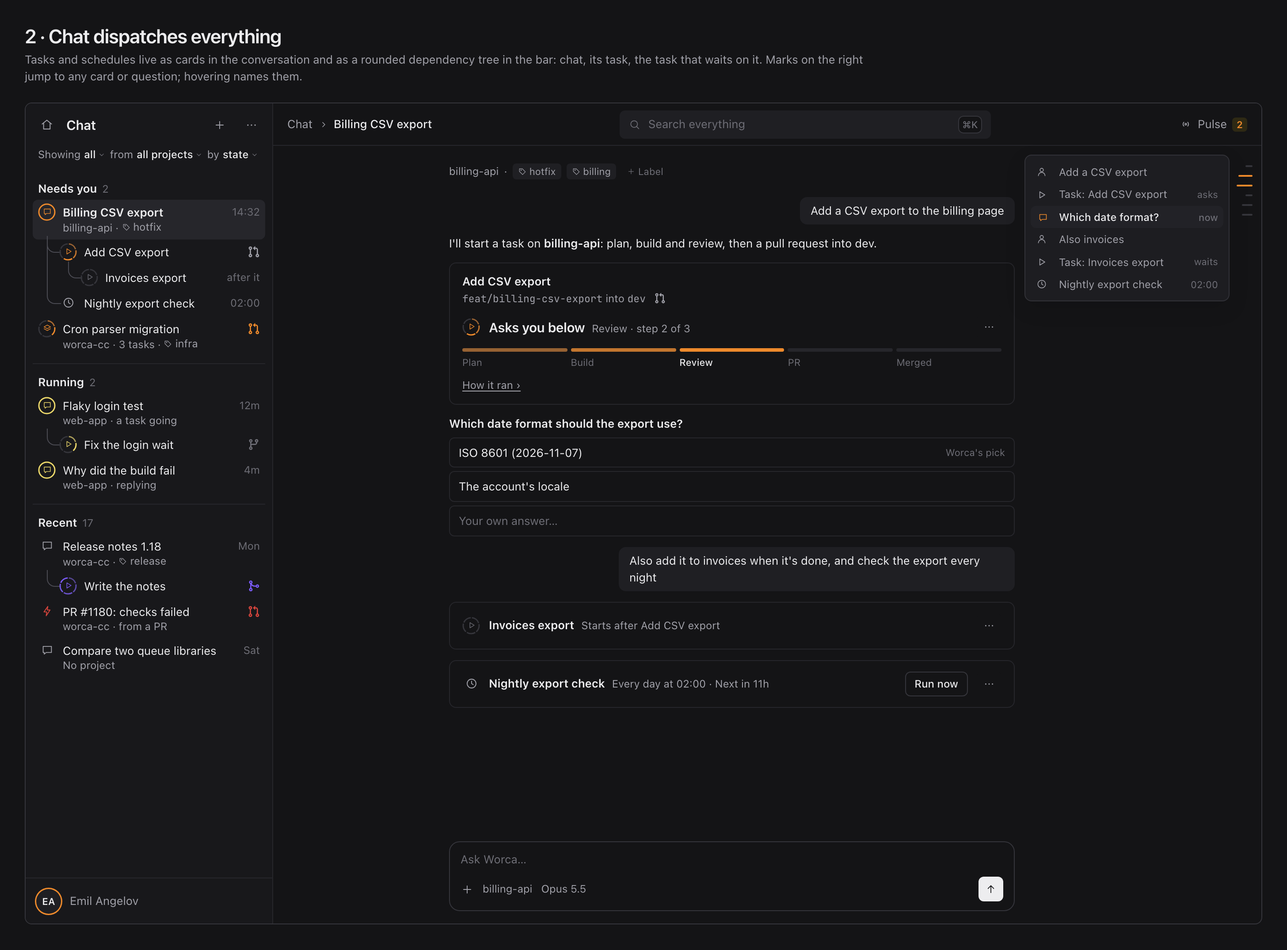
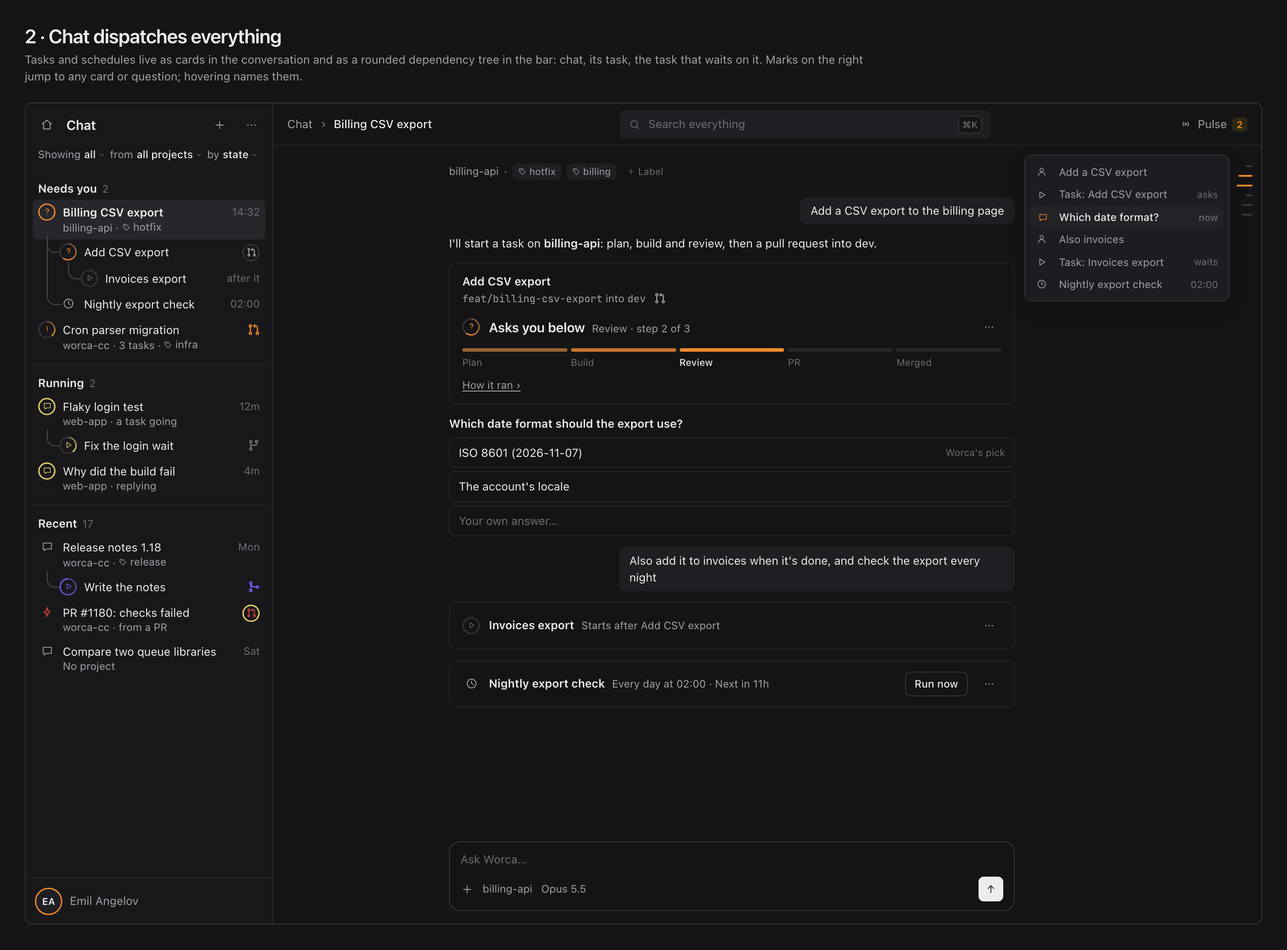
Shaping: smooth stage ring, Watch ring, every status, anchors on hover first

diff --git a/plans/rail/mocks/wave-2/mock.js b/plans/rail/mocks/wave-2/mock.js
@@ -2,12 +2,14 @@ const P=(d)=>`<path d="${d}"/>`, C=(x,y,r)=>`<circle cx="${x}" cy="${y}" r="${r}
 const I={home:P('M4 11l8-6.5 8 6.5')+P('M6.5 9.5v10h11v-10'),chat:P('M4.5 5.5h15v11H10l-3.5 3v-3h-2z'),run:P('M8 5.5v13l10.5-6.5z'),schedule:C(12,12,8)+P('M12 7.5V12l3 2'),event:P('M13 3.5 6 13.5h5l-1 7 7-10.5h-5z'),feature:P('M12 4l8 4.5-8 4.5-8-4.5z')+P('M4 13l8 4.5 8-4.5'),
 workflow:C(6,12,2.2)+C(18,6,2.2)+C(18,18,2.2)+P('M8.2 12H12V6h3.8M12 12v6h3.8'),req:P('M6 3.5h9l3 3v14H6z')+P('M9 12h6M9 16h4'),market:P('M5 8.5h14l-1 11.5H6z')+P('M9 11V7a3 3 0 0 1 6 0v4'),folder:P('M3.5 6.5h6l2 2.5h9v10h-17z'),grid:Q(4,4,6.5,6.5)+Q(13.5,4,6.5,6.5)+Q(4,13.5,6.5,6.5)+Q(13.5,13.5,6.5,6.5),stats:P('M6 20v-7M12 20V4M18 20v-11'),team:C(9,8,3)+P('M3.5 19.5a5.5 5.5 0 0 1 11 0')+P('M16 5.5a3 3 0 0 1 0 5.5M18 14.5a5.5 5.5 0 0 1 2.5 5'),
 sliders:P('M4 8h9M17 8h3M4 16h3M11 16h9')+C(15,8,2)+C(9,16,2),tag:P('M4 12V4.5h7.5l8.5 8.5-7.5 7.5z')+'<circle cx="8.5" cy="8.5" r=".8" fill="currentColor"/>',loop:P('M20 11a8 8 0 0 0-14.5-3.5L4 9.5M4 4.5v5h5')+P('M4 13a8 8 0 0 0 14.5 3.5l1.5-2M20 19.5v-5h-5'),cube:P('M12 3.5l7.5 4.2v8.6L12 20.5l-7.5-4.2V7.7z')+P('M4.5 7.7 12 12l7.5-4.3M12 12v8.5'),memory:P('M6.5 3.5h11v17L12 16.5l-5.5 4z'),shield:P('M12 3.5l7 2.5v5.5c0 4.5-3 7.5-7 9-4-1.5-7-4.5-7-9V6z'),rail:P('M8 3.5v17M16 3.5v17M8 8h8M8 16h8'),plug:P('M9 3.5v5M15 3.5v5M6.5 8.5h11v3.5a5.5 5.5 0 0 1-11 0zM12 17.5v3'),link:P('M10 14a4 4 0 0 0 5.7 0l3-3a4 4 0 0 0-5.7-5.7l-1 1')+P('M14 10a4 4 0 0 0-5.7 0l-3 3a4 4 0 0 0 5.7 5.7l1-1'),gear:C(12,12,3)+P('M12 3.5v3M12 17.5v3M3.5 12h3M17.5 12h3M6 6l2 2M16 16l2 2M6 18l2-2M16 8l2-2'),bell:P('M6.5 16.5V11a5.5 5.5 0 0 1 11 0v5.5l1.5 1.5H5z')+P('M10 20.5h4'),flask:P('M9.5 3.5h5M10.5 3.5v6L5 19a1 1 0 0 0 1 1.5h12a1 1 0 0 0 1-1.5l-5.5-9.5v-6'),coin:C(12,12,8)+P('M14.5 9c-.5-1-1.5-1.3-2.5-1.3-1.5 0-2.6.8-2.6 2 0 3 5.3 1.5 5.3 4.5 0 1.2-1.2 2-2.7 2-1.1 0-2.2-.4-2.7-1.4M12 6v12'),gauge:P('M4.5 17a8.5 8.5 0 1 1 15 0')+P('M12 13.5l4-4.5'),moon:P('M19.5 14A8 8 0 0 1 10 4.5 8 8 0 1 0 19.5 14z'),cpu:Q(6.5,6.5,11,11)+P('M10 3.5v3M14 3.5v3M10 17.5v3M14 17.5v3M3.5 10h3M3.5 14h3M17.5 10h3M17.5 14h3'),
-branch:C(7,5.5,2)+C(7,18.5,2)+C(17,8,2)+P('M7 7.5v9M17 10c0 3.5-10 2.5-10 6.5'),pr:C(6.5,6,2)+C(6.5,18,2)+C(17.5,18,2)+P('M6.5 8v8M17.5 16v-6a3 3 0 0 0-3-3h-3M13.5 4.5 11 7l2.5 2.5'),merged:C(6.5,5.5,2)+C(6.5,18.5,2)+C(17.5,12,2)+P('M6.5 7.5v9M6.5 7.5c0 2.5 3 4.5 9 4.5'),conflict:C(6.5,6,2)+C(6.5,18,2)+P('M6.5 8v8M14 8l6 6M20 8l-6 6'),group:Q(4,5.5,16,13.5)+P('M4 9.5h16'),plus:P('M12 5.5v13M5.5 12h13'),more:'<circle cx="5.5" cy="12" r="1.3" fill="currentColor" stroke="none"/><circle cx="12" cy="12" r="1.3" fill="currentColor" stroke="none"/><circle cx="18.5" cy="12" r="1.3" fill="currentColor" stroke="none"/>',chev:P('M7 10l5 5 5-5'),chevR:P('M10 7l5 5-5 5'),search:C(11,11,6.5)+P('M16 16l4 4'),check:P('M5.5 12.5 10 17l8.5-9.5'),up:P('M12 19V5.5M6.5 11 12 5.5 17.5 11'),spark:P('M12 4l1.7 5.3L19 11l-5.3 1.7L12 18l-1.7-5.3L5 11l5.3-1.7z'),pulse:C(12,12,1.5)+P('M8.5 8.5a5 5 0 0 0 0 7M15.5 8.5a5 5 0 0 1 0 7'),you:C(12,8,3.5)+P('M5 20a7 7 0 0 1 14 0'),mic:Q(9.5,3.5,5,10.5,2.5)+P('M6 11.5a6 6 0 0 0 12 0M12 17.5v3')};
+branch:C(7,5.5,2)+C(7,18.5,2)+C(17,8,2)+P('M7 7.5v9M17 10c0 3.5-10 2.5-10 6.5'),pr:C(6.5,6,2)+C(6.5,18,2)+C(17.5,18,2)+P('M6.5 8v8M17.5 16v-6a3 3 0 0 0-3-3h-3M13.5 4.5 11 7l2.5 2.5'),merged:C(6.5,5.5,2)+C(6.5,18.5,2)+C(17.5,12,2)+P('M6.5 7.5v9M6.5 7.5c0 2.5 3 4.5 9 4.5'),conflict:C(6.5,6,2)+C(6.5,18,2)+P('M6.5 8v8M14 8l6 6M20 8l-6 6'),group:Q(4,5.5,16,13.5)+P('M4 9.5h16'),q:P('M9.2 9.2a2.9 2.9 0 1 1 4.2 2.6c-.9.5-1.4 1.1-1.4 2v.4')+P('M12 17.6h.01'),bang:P('M12 6.5v7.5')+P('M12 17.6h.01'),xx:P('M7 7l10 10M17 7 7 17'),ps:P('M9 6v12M15 6v12'),sq:'<rect x="7.5" y="7.5" width="9" height="9" rx="1.5" fill="currentColor" stroke="none"/>',plus:P('M12 5.5v13M5.5 12h13'),more:'<circle cx="5.5" cy="12" r="1.3" fill="currentColor" stroke="none"/><circle cx="12" cy="12" r="1.3" fill="currentColor" stroke="none"/><circle cx="18.5" cy="12" r="1.3" fill="currentColor" stroke="none"/>',chev:P('M7 10l5 5 5-5'),chevR:P('M10 7l5 5-5 5'),search:C(11,11,6.5)+P('M16 16l4 4'),check:P('M5.5 12.5 10 17l8.5-9.5'),up:P('M12 19V5.5M6.5 11 12 5.5 17.5 11'),spark:P('M12 4l1.7 5.3L19 11l-5.3 1.7L12 18l-1.7-5.3L5 11l5.3-1.7z'),pulse:C(12,12,1.5)+P('M8.5 8.5a5 5 0 0 0 0 7M15.5 8.5a5 5 0 0 1 0 7'),you:C(12,8,3.5)+P('M5 20a7 7 0 0 1 14 0'),mic:Q(9.5,3.5,5,10.5,2.5)+P('M6 11.5a6 6 0 0 0 12 0M12 17.5v3')};
 const i=(n,s=16,c='')=>`<svg class="i" width="${s}" height="${s}" viewBox="0 0 24 24" ${c?`style="color:${c}"`:''}>${I[n]}</svg>`;
-const T={run:'var(--peach)',ask:'var(--amber)',fail:'#D6453D',ok:'#2E9E6B',merged:'#7C5CFC',idle:'var(--ink-2)',wait:'var(--ink-3)'};
+const T={act:'var(--amber)',pause:'var(--ink-2)',stop:'var(--ink-2)',closed:'var(--ink-2)',run:'var(--peach)',ask:'var(--amber)',fail:'#D6453D',ok:'#2E9E6B',merged:'#7C5CFC',idle:'var(--ink-2)',wait:'var(--ink-3)'};
 // the mark: a glyph for the type, its colour the state, a ring of stage segments for what has stages
-function mark(type,state='idle',done=-1,size=20,style='seg'){
-  const col=T[state],k=size/20,g=i(type,Math.round((done===-1?15:11)*k),state==='idle'?T.idle:state==='wait'?T.wait:col),r=9,cx=10,cy=10,L=2*Math.PI*r;
+let CENTRE=true;
+function mark(type,state='idle',done=-1,size=20,style='sweep'){
+  const SY={ask:'q',act:'bang',fail:'xx',pause:'ps',stop:'sq'};if(CENTRE&&done!==-1&&SY[state])type=SY[state];
+  const col=T[state],k=size/20,g=i(type,Math.round((done===-1?15:type==='q'||type==='bang'?14:11)*k),state==='idle'?T.idle:state==='wait'?T.wait:col),r=9,cx=10,cy=10,L=2*Math.PI*r;
   let ring='';
   const mix=(p)=>`color-mix(in srgb, ${col} ${Math.round((.3+.7*p)*100)}%, var(--line-2))`, sw=1.5, arc=(from,len,stroke)=>`<circle cx="${cx}" cy="${cy}" r="${r}" fill="none" stroke="${stroke}" stroke-width="${sw}" stroke-dasharray="${len} ${L-len}" stroke-dashoffset="${-from+L/4}"/>`;
   const reach=state==='wait'?-1:Math.min(done,4);
@@ -20,7 +22,8 @@ const tg=(t)=>`<span class="tg">${i('tag',10)}${t}</span>`;
 const OCT={"branch": "M9.5 3.25a2.25 2.25 0 1 1 3 2.122V6A2.5 2.5 0 0 1 10 8.5H6a1 1 0 0 0-1 1v1.128a2.251 2.251 0 1 1-1.5 0V5.372a2.25 2.25 0 1 1 1.5 0v1.836A2.493 2.493 0 0 1 6 7h4a1 1 0 0 0 1-1v-.628A2.25 2.25 0 0 1 9.5 3.25Zm-6 0a.75.75 0 1 0 1.5 0 .75.75 0 0 0-1.5 0Zm8.25-.75a.75.75 0 1 0 0 1.5.75.75 0 0 0 0-1.5ZM4.25 12a.75.75 0 1 0 0 1.5.75.75 0 0 0 0-1.5Z", "pr": "M1.5 3.25a2.25 2.25 0 1 1 3 2.122v5.256a2.251 2.251 0 1 1-1.5 0V5.372A2.25 2.25 0 0 1 1.5 3.25Zm5.677-.177L9.573.677A.25.25 0 0 1 10 .854V2.5h1A2.5 2.5 0 0 1 13.5 5v5.628a2.251 2.251 0 1 1-1.5 0V5a1 1 0 0 0-1-1h-1v1.646a.25.25 0 0 1-.427.177L7.177 3.427a.25.25 0 0 1 0-.354ZM3.75 2.5a.75.75 0 1 0 0 1.5.75.75 0 0 0 0-1.5Zm0 9.5a.75.75 0 1 0 0 1.5.75.75 0 0 0 0-1.5Zm8.25.75a.75.75 0 1 0 1.5 0 .75.75 0 0 0-1.5 0Z", "merge": "M5.45 5.154A4.25 4.25 0 0 0 9.25 7.5h1.378a2.251 2.251 0 1 1 0 1.5H9.25A5.734 5.734 0 0 1 5 7.123v3.505a2.25 2.25 0 1 1-1.5 0V5.372a2.25 2.25 0 1 1 1.95-.218ZM4.25 13.5a.75.75 0 1 0 0-1.5.75.75 0 0 0 0 1.5Zm8.5-4.5a.75.75 0 1 0 0-1.5.75.75 0 0 0 0 1.5ZM5 3.25a.75.75 0 1 0 0 .005V3.25Z", "draft": "M3.25 1A2.25 2.25 0 0 1 4 5.372v5.256a2.251 2.251 0 1 1-1.5 0V5.372A2.251 2.251 0 0 1 3.25 1Zm9.5 14a2.25 2.25 0 1 1 0-4.5 2.25 2.25 0 0 1 0 4.5ZM2.5 3.25a.75.75 0 1 0 1.5 0 .75.75 0 0 0-1.5 0ZM3.25 12a.75.75 0 1 0 0 1.5.75.75 0 0 0 0-1.5Zm9.5 0a.75.75 0 1 0 0 1.5.75.75 0 0 0 0-1.5ZM14 7.5a1.25 1.25 0 1 1-2.5 0 1.25 1.25 0 0 1 2.5 0Zm0-4.25a1.25 1.25 0 1 1-2.5 0 1.25 1.25 0 0 1 2.5 0Z", "closed": "M3.25 1A2.25 2.25 0 0 1 4 5.372v5.256a2.251 2.251 0 1 1-1.5 0V5.372A2.251 2.251 0 0 1 3.25 1Zm9.5 5.5a.75.75 0 0 1 .75.75v3.378a2.251 2.251 0 1 1-1.5 0V7.25a.75.75 0 0 1 .75-.75Zm-2.03-5.273a.75.75 0 0 1 1.06 0l.97.97.97-.97a.748.748 0 0 1 1.265.332.75.75 0 0 1-.205.729l-.97.97.97.97a.751.751 0 0 1-.018 1.042.751.751 0 0 1-1.042.018l-.97-.97-.97.97a.749.749 0 0 1-1.275-.326.749.749 0 0 1 .215-.734l.97-.97-.97-.97a.75.75 0 0 1 0-1.06ZM2.5 3.25a.75.75 0 1 0 1.5 0 .75.75 0 0 0-1.5 0ZM3.25 12a.75.75 0 1 0 0 1.5.75.75 0 0 0 0-1.5Zm9.5 0a.75.75 0 1 0 0 1.5.75.75 0 0 0 0-1.5Z"};
 const G={branch:['branch','var(--ink-3)'],draft:['draft','var(--ink-3)'],pr:['pr','var(--ink-2)'],ok:['pr','#2E9E6B'],fail:['pr','#D6453D'],conflict:['pr','var(--amber)'],merged:['merge','#7C5CFC'],closed:['closed','var(--ink-3)']};
 const git=(k,s=13)=>`<svg width="${s}" height="${s}" viewBox="0 0 16 16" style="flex:none;display:inline-block;vertical-align:-2px" fill="${G[k][1]}"><path d="${OCT[G[k][0]]}"/></svg>`;
-const row=(o)=>`<div class="r ${o.cur?'cur':''} ${o.strong?'strong':''}"><span class="mk">${o.mark}</span><span style="min-width:0"><div class="ti">${o.t}</div>${o.m?`<div class="me">${o.m}</div>`:''}</span><span class="en" style="display:inline-flex;gap:6px;align-items:center;min-height:18px">${o.g?git(o.g,14):o.e||''}</span></div>`;
+const gitw=(k,w)=>`<span title="Watch" style="position:relative;display:inline-flex;width:20px;height:20px;align-items:center;justify-content:center;flex:none"><svg width="20" height="20" viewBox="0 0 20 20" style="position:absolute;inset:0"><circle cx="10" cy="10" r="9" fill="none" stroke="${w==='fix'?'var(--peach)':'var(--line-2)'}" stroke-width="1.5"/></svg>${git(k,11)}</span>`;
+const row=(o)=>`<div class="r ${o.cur?'cur':''} ${o.strong?'strong':''}"><span class="mk">${o.mark}</span><span style="min-width:0"><div class="ti">${o.t}</div>${o.m?`<div class="me">${o.m}</div>`:''}</span><span class="en" style="display:inline-flex;gap:6px;align-items:center;min-height:18px">${o.w?gitw(o.g,o.w):o.g?git(o.g,14):o.e||''}</span></div>`;
 const kids=(a)=>`<div class="kids">${a.map(k=>`<div class="kid">${row(k)}${k.kids?kids(k.kids):''}</div>`).join('')}</div>`;
 const bar=(o)=>`<aside class="bar ${o.solo?'solo':''}" style="${o.h?`height:${o.h}px;`:''}${o.w?`width:${o.w}px`:''}"><div class="bh"><span class="ib ${o.homeOn?'bx':''}">${i('home',16)}</span><span class="bt">${o.title}</span>${o.act?`<span class="ib">${i(o.act,15)}</span>`:''}${o.sent?`<span class="ib">${i('more',15)}</span>`:''}</div>${o.sent||''}<div class="bb">${o.body}</div>${o.foot||''}<div class="bf"><span class="av">EA</span>Emil Angelov</div></aside>`;
 const ni=(n,l,o={})=>`<div class="ni ${o.cur?'cur':''}">${i(n,16)}${l}${o.e?`<span class="e ${o.x?'x':''}">${o.e}</span>`:''}</div>`;
@@ -28,12 +31,12 @@ const gh=(t,n,s)=>`<div class="gh ${s?'sep':''}">${t}${n!=null?` <span>${n}</spa
 const sent=(a)=>`<div class="sent">${a.map(x=>x[0]==='~'?`<span>${x.slice(1)}</span>`:`<span class="w"><b>${x}</b>${i('chev',10)}</span>`).join('')}</div>`;
 const topb=(tr,o={})=>`<div class="top"><div class="trail">${tr}</div><div class="sf ${o.q?'on':''}">${i('search',14)}${o.q||'Search everything'}<span class="kbd">⌘K</span></div><span class="tb">${i('pulse',15)}Pulse <span class="bdg">2</span></span>${o.res||''}</div>`;
 const SA=sent(['~Showing','all','~from','all projects','~by','state']);
-const chatBody=(cur)=>gh('Needs you',2)+row({mark:mark('chat','ask',-2),t:'Billing CSV export',m:`billing-api · ${tg('hotfix')}`,e:'14:32',cur,strong:true})+kids([{mark:mark('run','ask',2),t:'Add CSV export',g:'pr',e:'Review',kids:[{mark:mark('run','wait',0),t:'Invoices export',e:'after it'}]},{mark:mark('schedule','idle'),t:'Nightly export check',e:'02:00'}])
- +row({mark:mark('feature','ask',1),t:'Cron parser migration',m:`worca-cc · 3 tasks · ${tg('infra')}`,g:'conflict',e:'13:40'})
+const chatBody=(cur)=>gh('Needs you',2)+row({mark:mark('chat','ask',-2),t:'Billing CSV export',m:`billing-api · ${tg('hotfix')}`,e:'14:32',cur,strong:true})+kids([{mark:mark('run','ask',2),t:'Add CSV export',g:'pr',w:'idle',kids:[{mark:mark('run','wait',0),t:'Invoices export',e:'after it'}]},{mark:mark('schedule','idle'),t:'Nightly export check',e:'02:00'}])
+ +row({mark:mark('feature','act',1),t:'Cron parser migration',m:`worca-cc · 3 tasks · ${tg('infra')}`,g:'conflict',e:'13:40'})
  +gh('Running',2,1)+row({mark:mark('chat','run',-2),t:'Flaky login test',m:'web-app · a task going',e:'12m'})+kids([{mark:mark('run','run',1),t:'Fix the login wait',g:'branch',e:'Build'}])
  +row({mark:mark('chat','run',-2),t:'Why did the build fail',m:'web-app · replying',e:'4m'})
  +gh('Recent',17,1)+row({mark:mark('chat'),t:'Release notes 1.18',m:`worca-cc · ${tg('release')}`,e:'Mon'})+kids([{mark:mark('run','merged',5),t:'Write the notes',g:'merged',e:'#1101'}])
- +row({mark:mark('event','fail'),t:'PR #1180: checks failed',m:'worca-cc · from a PR',g:'fail',e:'Sun'})
+ +row({mark:mark('event','fail'),t:'PR #1180: checks failed',m:'worca-cc · from a PR',g:'fail',w:'fix'})
  +row({mark:mark('chat'),t:'Compare two queue libraries',m:'No project',e:'Sat'});
 const stepper=(cur,col)=>`<div class="st">${['','','','',''].map((_,n)=>`<i ${n<=cur?`style="background:color-mix(in srgb, var(--${col==='a'?'amber':'peach'}) ${Math.round((.3+.7*(n+1)/(cur+1))*100)}%, var(--line-2))"`:''}></i>`).join('')}</div><div class="stl">${['Plan','Build','Review','PR','Merged'].map((s,n)=>n===cur?`<b>${s}</b>`:`<span>${s}</span>`).join('')}</div>`;
 const page=(t,s,b)=>`<h1 class="t">${t}</h1><p class="s">${s}</p>${b}`;
@@ -67,14 +70,14 @@ M[3]=()=>{
  const cell=(t,s)=>{const v=t[2][s[1]];return v===0&&(t[1]==='chat'||t[1]==='schedule'||t[1]==='event')?'<span style="color:var(--ink-3)">–</span>':mark(t[1],s[1],v===0&&s[1]==='idle'?-1:v);};
  const mx=`<table class="mx"><tr><th></th>${st.map(s=>`<th>${s[0]}</th>`).join('')}</tr>${types.map(t=>`<tr><td class="n">${t[0]}</td>${st.map(s=>`<td>${cell(t,s)}</td>`).join('')}</tr>`).join('')}</table>`;
  const seq=[0,1,2,3].map(n=>`<div class="sq">${mark('run','run',n,44)}<span>${['Plan','Build','Review','PR'][n]}</span></div>`).join('');
- const opts=`<p class="cap">The ring, stage by stage</p><p class="capm">Main stages only. Each deepens towards the state's colour; substages live in the tooltip.</p><div class="sqs">${seq}<div class="sq">${mark('run','ask',2,44)}<span>Needs you</span></div><div class="sq">${mark('run','fail',2,44)}<span>Failed</span></div><div class="sq">${mark('run','merged',5,44)}<span>Merged</span></div></div>`;
+ const opts=`<p class="cap">One smooth ring</p><p class="capm">It fills by main stage and deepens into the state's colour. Substages live in the tooltip.</p><div class="sqs">${seq}<div class="sq">${mark('run','ask',2,44)}<span>Asks you</span></div><div class="sq">${mark('run','fail',2,44)}<span>Failed</span></div><div class="sq">${mark('run','merged',5,44)}<span>Merged</span></div></div>`;
  const topic=sent(['~Showing','all','~by','topic']);
  const tb=`<div class="ai">${i('spark',12)}Grouped by Worca · Haiku<a>Undo</a></div>`+gh('Billing',3)+row({mark:mark('chat','ask',-2),t:'Billing CSV export',m:`billing-api · ${tg('hotfix')}`,e:'14:32'})+row({mark:mark('chat'),t:'Invoice rounding',m:'billing-api',e:'Tue'})+row({mark:mark('schedule'),t:'Cost report',m:'No chat',e:'Fri'})+gh('Test flakiness',2,1)+row({mark:mark('chat','run',-2),t:'Flaky login test',m:'web-app',e:'12m'})+row({mark:mark('chat','run',-2),t:'Why did the build fail',m:'web-app',e:'4m'})+gh('Your groups',1,1)+row({mark:mark('group'),t:'Release 1.20',m:'Stays as you made it',e:'2'})+kids([{mark:mark('chat'),t:'Release notes 1.20',e:'Mon'},{mark:mark('chat'),t:'Tag the release',e:'Mon'}]);
  const seli=(t,m,on,e)=>`<div class="r"><span class="mk"><span class="chk ${on?'on':''}">${on?i('check',10):''}</span></span><span style="min-width:0"><div class="ti">${t}</div><div class="me">${m}</div></span><span class="en">${e}</span></div>`;
  const sb=gh('Today',2)+seli('Flaky login test','web-app',1,'12m')+seli('Why did the build fail','web-app',0,'4m')+gh('Yesterday',1,1)+seli('Invoice rounding','billing-api',0,'Thu')+gh('Previous 7 days',2,1)+seli('Release notes 1.18','worca-cc · release',1,'Mon')+seli('PR #1180: checks failed','worca-cc',0,'Sun')+gh('Previous 30 days',1,1)+seli('Compare two queue libraries','No project',0,'Oct 20')+gh('Older',3,1);
  const foot=`<div class="selb"><b style="font-weight:500">2 selected</b><span>Archive 2</span><span>Label 2</span><span style="margin-left:auto;color:var(--ink-2)">Cancel</span></div><div class="keys"><span><b>↑↓</b> move</span><span><b>Space</b> select</span><span><b>E</b> archive</span><span><b>G</b> group</span><span><b>L</b> label</span><span><b>?</b> all</span></div>`;
- return page('3 · The icon carries type, state and progress','The shape says what it is. The ring is the usage ring from the profile: it fills by main stage, deepening into the state colour, and substages stay in the tooltip. A row\'s end holds one thing: git\'s icon where there is one, otherwise the time.',
- `<div class="cols"><div style="width:640px">${opts}<p class="cap" style="margin-top:18px">Every type, every state</p><p class="capm">A dash: it cannot happen. Shape and tooltip carry it for anyone who can't read the colour.</p>${mx}<div style="display:flex;gap:12px;align-items:flex-start"><div class="tip" style="width:300px">${mark('run','run',2)} <b style="margin-left:6px">Running</b> <span>· Review, step 2 of 3 · Manual UI testing · 21m</span></div><div class="tip" style="width:328px">${git('fail',15)} <b style="margin-left:6px">PR #1180, checks failing</b> <span>· 2 of 9 · into dev · +358 −144</span></div></div><p class="cap" style="margin-top:18px">A row's end holds one thing: git's icon if it has one, otherwise its time</p><div class="gits">${[['branch','Branch only'],['draft','Draft'],['pr','Open'],['ok','Checks pass'],['fail','Checks failing'],['conflict','Conflicts'],['merged','Merged'],['closed','Closed']].map(g=>`<span>${git(g[0],16)}${g[1]}</span>`).join('')}</div></div>`
+ return page('3 · The icon carries type, state and progress','The shape says what it is. The ring is the usage ring from the profile: smooth, filling by main stage and deepening into the state colour, with substages in the tooltip. A row\'s end holds one thing: git\'s icon where there is one, otherwise the time.',
+ `<div class="cols"><div style="width:640px">${opts}<p class="cap" style="margin-top:18px">Every type, every state</p><p class="capm">A dash: it cannot happen. Shape and tooltip carry it for anyone who can't read the colour.</p>${mx}<div style="display:flex;gap:12px;align-items:flex-start"><div class="tip" style="width:300px">${mark('run','run',2)} <b style="margin-left:6px">Running</b> <span>· Review, step 2 of 3 · Manual UI testing · 21m</span></div><div class="tip" style="width:328px">${gitw('fail','fix')} <b style="margin-left:6px">Watching PR #1180</b> <span>· Round 3 · Fixing 2 failed checks · into dev</span></div></div><p class="cap" style="margin-top:18px">A row's end holds one thing: git's icon if it has one, otherwise its time</p><div class="gits">${[['branch','Branch only'],['draft','Draft'],['pr','Open'],['ok','Checks pass'],['fail','Checks failing'],['conflict','Conflicts'],['merged','Merged'],['closed','Closed']].map(g=>`<span>${git(g[0],16)}${g[1]}</span>`).join('')}</div><p class="cap" style="margin-top:14px">Watch: a thin ring around git's icon</p><div class="gits"><span>${gitw('pr','idle')}Watching, nothing to do</span><span>${gitw('fail','fix')}Fixing failed checks</span><span>${git('conflict',16)}Stopped: needs you</span></div></div>`
  +`<div><p class="cap">By topic</p><p class="capm">A helper names the topics</p>${bar({solo:1,h:640,w:300,title:'Chat',act:'plus',sent:topic,body:tb})}</div><div><p class="cap">By day, selecting and keys</p><p class="capm">Same as every list</p>${bar({solo:1,h:640,w:300,title:'Chat',act:'plus',sent:sent(['~Showing','all','~from','all projects','~by','day']),body:sb,foot})}</div></div>`);};
 M[4]=()=>{
  const set=gh('Work')+ni('run','Tasks',{cur:1})+ni('sliders','Presets')+ni('tag','Labels')+ni('loop','Automations')+gh('AI')+ni('cube','Models')+ni('chat','Chat')+ni('memory','Memory')+gh('Access')+ni('shield','Team policy')+ni('rail','Guardrails')+gh('Add-ons')+ni('plug','Plugins')+ni('link','Connectors')+gh('Worca')+ni('gear','General')+ni('bell','Notifications')+ni('flask','Labs');
@@ -94,7 +97,7 @@ M[4]=()=>{
  return page('4 · Settings: lean icons, and search that finds everything','Every section and sub-section gets one small line icon. The one search finds settings, chats, tasks, schedules and the rest, each under its own head, so you always know which area a result is from.',
  `<div class="cols"><div><p class="cap">Sections and sub-sections</p><p class="capm">One icon each, in the bar and on a section's head</p><div class="f" style="height:800px;width:900px">`+bar({title:'Settings',body:set})+`<div class="mmain">`+topb(`Settings ${i('chevR',12)} <b>Tasks</b>`)+pg+`</div></div></div><div><p class="cap">Search, from any page</p><p class="capm">An area head over its results; each result says where it lives</p><div class="f" style="height:800px;width:640px"><div class="mmain">`+topb(`<b>Settings</b>`,{q:'limit',res})+`</div></div></div></div><div style="margin-top:24px;width:1564px">${sheet}</div>`);};
 M[5]=()=>{
- const fr=(n,cls,scheme,m)=>`<div><p class="cap">${n}</p><p class="capm">${m}</p><div class="f" style="height:330px;width:380px;color-scheme:${scheme};color:var(--ink)"><div class="mmain"><div class="bgs ${cls}"></div><div class="home"><h3>What should Worca do?</h3><div class="cmp">Ask Worca…<div class="cmpb">${i('plus',15)}<span>No project</span><span class="send">${i('up',14)}</span></div></div></div></div></div></div>`;
+ const fr=(n,cls,scheme,m)=>`<div><p class="cap">${n}</p><p class="capm">${m}</p><div class="f" style="height:330px;width:380px;color-scheme:${scheme};color:var(--ink)"><div class="mmain"><div class="bgs ${cls}"></div><div class="home"><h3>What's next?</h3><div class="cmp">Ask Worca…<div class="cmpb">${i('plus',15)}<span>No project</span><span class="send">${i('up',14)}</span></div></div></div></div></div></div>`;
  const R=(s)=>`<div class="cols" style="margin-bottom:18px">`+[['Dots · default','bg-dots','The quiet grid, fading down'],['Aurora dots','bg-adots','The same grid, cool at the top'],['Dusk dots','bg-ddots','The same grid, warm from below'],['Mist','bg-mist','A faint wash under quiet dots']].map(x=>fr(x[0],x[1],s,s==='light'?x[2]:'In the dark')).join('')+`</div>`;
  return page('5 · Backgrounds: dots first','One family, built on the same dots: Dots by default, and colour only ever in the dots or a faint wash. Only where no work is read: Chat home and the away screen. Chosen in the profile menu, no violet, and still under reduced motion.',R('light')+R('dark'));};
 M[6]=()=>{
@@ -171,6 +174,54 @@ M[9]=()=>{
  const fr=(c,m,inner)=>`<div style="width:440px"><p class="cap">${c}</p><p class="capm" style="min-height:34px">${m}</p><div class="f" style="height:430px;width:440px"><div class="mmain" style="padding:16px 44px 0 16px">${body}${inner}</div></div></div>`;
  const longm=Array.from({length:34},(_,n)=>n%11===4?'p':n===21?'a':n===27?'rd':n%3?'y':'').map(x=>`<i class="${x} tight"></i>`).join('');
  const bb=gh('Needs you',1)+row({mark:mark('chat','ask',-2),t:'Billing CSV export',m:'billing-api',e:'14:32',cur:1})+kids([{mark:mark('run','ask',2),t:'Add CSV export',g:'pr'},{mark:'<span class="dotw"></span>',t:'Which date format?'},{mark:i('you',13),t:'Also invoices'},{mark:mark('run','wait',0),t:'Invoices export'},{mark:mark('schedule'),t:'Nightly export check',e:'02:00'}]);
- return page('9 · Anchors: move through a long chat without scrolling','Quiet marks on the right edge, one for each thing worth finding. A long dash is work or a question, and a short one is your own message. Colour is the state. Click one and it comes into view and lights once; hover to read them all. <b>[</b> and <b>]</b> move between them.',
- `<div class="cols">`+fr('Marks at rest','Marks only. The dark one is where you are, the orange one waits for you.',anc(['y','cur','a','y','','']).replace('top:70px','top:24px'))+fr('Marks on hover','Every mark named, with its state. Worca\'s words never get a mark: only you, work and questions do.',anc(['y','cur','a','y','','']).replace('top:70px','top:24px')+ap)+fr('Marks in a long chat','The marks tighten and stay within the height. Work and questions keep their colour.',`<div class="an" style="top:24px;gap:6px">${longm}</div>`)+`<div style="width:300px"><p class="cap">Or: under the chat, in the bar</p><p class="capm" style="min-height:34px">The same list, in the tree. Long chats make the bar long, so I would not start here.</p>${bar({solo:1,h:430,w:300,title:'Chat',act:'plus',body:bb})}</div></div>`);};
+ return page('9 · Anchors: on hover first','Quiet marks on the right edge, one for each thing worth finding. Hover and they all get a name. A long dash is work or a question, a short one is your own message, and colour is the state. Click one and it comes into view and lights once; <b>[</b> and <b>]</b> move between them.',
+ `<div class="cols">`+fr('On hover: where we start','Every mark named, with its state. Worca\'s words never get a mark: only you, work and questions do.',anc(['y','cur','a','y','','']).replace('top:70px','top:24px')+ap)+fr('At rest','Marks only. The dark one is where you are, the orange one waits for you.',anc(['y','cur','a','y','','']).replace('top:70px','top:24px'))+fr('A long chat','The marks tighten and stay within the height. Work and questions keep their colour.',`<div class="an" style="top:24px;gap:6px">${longm}</div>`)+`</div>`);};
+M[10]=()=>{
+ const R=(ic,w,how,tip,n)=>`<tr><td class="ci">${ic}</td><td class="cw">${w}</td><td class="ch2">${how}</td><td class="ct2">${tip}</td></tr>`;
+ const H=(t)=>`<tr><td colspan="4" class="cg">${t}</td></tr>`;
+ const t1=`<table class="stt">`+H('A task')
+ +R(mark('run','wait',0),'Waiting','Empty ring','Starts after Add CSV export · Starts at 14:00')
+ +R(mark('run','run',0),'Starting, Working','Lemon, filling by stage','Build, step 2 of 3 · Waiting for the network')
+ +R(mark('run','run',2),'In review','Lemon at Review or PR; grey for a draft, orange when behind or blocked','Checks running · Fixing round 3 · Out of date with dev')
+ +R(mark('run','ask',2),'Needs you: a question','Orange, <b>?</b>','Which date format? · The plan asks 2 questions')
+ +R(mark('run','act',2),'Needs you: something to do','Orange, <b>!</b>','Conflicts · 2 checks failing · Approve the plan')
+ +R(mark('run','pause',2),'Paused','Grey, a pause mark; the reason in the tooltip','Weekly limit, resumes 14:00 · Budget used up · By you')
+ +R(mark('run','fail',2),'Failed','Red, <b>×</b>','Test step · 3 tests failed')
+ +R(mark('run','stop',2),'Stopped, Cancelled, Discarded','Grey, a stop mark, where it stopped','Stopped at Build · Nothing was merged')
+ +R(mark('run','ok',3),'Ready, Ready to merge','Green, to PR','Checks pass · 1 approval')
+ +R(mark('run','ok',4),'Finished','Green, full','No project: the work is in the folder')
+ +R(mark('run','merged',5),'Merged, Applied','Violet, full','Merged #1101 into dev')
+ +R(mark('run','closed',3),'Closed','Grey, where it ended','PR closed without merging')
+ +R(mark('run'),'Archived, Deleted','Type only, no ring','Was Merged · Restore in ⋯ · What is gone says gone')
+ +R(mark('run','wait',0),'Mock run','Empty ring; its tooltip says mock','A mock run: nothing real was changed')
+ +`</table>`;
+ const t2=`<table class="stt">`+H('A chat')
+ +R(mark('chat','run',-2),'Replying, Running a command, Following','Lemon, whole ring','Replying · Following Add CSV export')
+ +R(mark('chat','ask',-2),'Needs you','Orange, <b>?</b>','A task in this chat asks you')
+ +R(mark('chat'),'Idle','Type only','14:32 · $2.80')
+ +H('A schedule')
+ +R(mark('schedule'),'Waiting','Type only; its next time at the row\'s end','Every day at 02:00 · Next in 11h')
+ +R(mark('schedule','run',-2),'Running','Lemon, whole ring','Started at 02:00 · Open its task')
+ +R(mark('schedule','act',-2),'Missed','Orange, <b>!</b>','Missed Tuesday: Worca was off · Run now')
+ +R(mark('schedule','pause',-2),'Paused','Grey, a pause mark','Paused by you')
+ +R(mark('schedule','fail',-2),'Last one failed','Red, <b>×</b>','Failed last night · Open its task')
+ +H('An event')
+ +R(mark('event'),'Info','Type only','PR #1180 was approved')
+ +R(mark('event','act'),'Needs you','Orange bolt','A reviewer asked for changes')
+ +R(mark('event','fail'),'A problem','Red bolt','Checks failed on PR #1180')
+ +H('Git, at the row\'s end')
+ +R(git('pr',16),'Open, Draft, Branch, Merged, Closed','Git\'s own icon','PR #1180 · into dev · +358 −144')
+ +R(gitw('pr','idle'),'Watching','Grey ring around it','Worca fixes failing checks')
+ +R(gitw('fail','fix'),'Watching, fixing','Lemon ring around it','Round 3 · Fixing 2 failed checks')
+ +`</table>`;
+ const one=(ic,w,d)=>`<div class="oq"><span>${ic}</span><b>${w}</b><p>${d}</p></div>`;
+ const q=`<p class="cap" style="margin-top:22px">One question, everywhere it shows</p><p class="capm">Worca asks in one place. Everything else points there, and answering clears them all together.</p><div class="oqs">`
+ +one(mark('run','ask',2),'The bar','The task and its chat turn orange with a ?, and rise to Needs you')
+ +one(`<span class="btn2" style="height:22px">Asks you below</span>`,'The card','Says so, and has no answer of its own')
+ +one('<b style="font-weight:600">Which format?</b>','The conversation','The question and its options, as Worca\'s own turn: the one place you answer')
+ +one('<i style="display:block;width:18px;height:2px;background:var(--amber)"></i>','The anchors','An orange mark; <b>]</b> takes you there')
+ +one(`<span class="tb">${i('pulse',15)}Pulse <span class="bdg">2</span></span>`,'Pulse','Its count, and a row that lands on the question')
+ +`</div>`;
+ return page('10 · Every status, from the library','All 19 of Rail\'s status words, no new ones. The shape says the type until the state matters more: then a question, a problem, a pause or a stop takes the centre, and its row and tree still say what it is. Hover always gives the word and the reason.',
+ `<div class="cols"><div style="width:800px">${t1}</div><div style="width:800px">${t2}</div></div>${q}`);};
 const q=new URLSearchParams(location.search);document.documentElement.style.colorScheme=q.get('theme')||'light';document.getElementById('m').innerHTML=M[q.get('m')||1]();

diff --git a/plans/rail/mocks/wave-2/mock.css b/plans/rail/mocks/wave-2/mock.css
@@ -125,3 +125,5 @@ table.mx{border-collapse:collapse;font-size:12px;} .mx th{font-weight:400;color:
 .sb2{display:flex;flex-direction:column;gap:8px;} .pk3{font-weight:500;color:var(--ink);} .more{font-size:12px;color:var(--ink-2);padding:2px 0 0 34px;}
 .an i.rd{background:#D6453D;width:16px;} .an i.tight{height:1.5px;} .an i.tight.y{width:6px;} .an i.tight.p,.an i.tight.a,.an i.tight.rd{width:14px;}
 .crop{display:flex;flex-direction:column;gap:12px;} .fy{align-self:flex-end;background:var(--field);border-radius:8px;padding:5px 10px;font-size:12px;max-width:80%;} .fw{display:flex;flex-direction:column;gap:6px;} .fk{height:6px;background:var(--field);border-radius:2px;} .fc{display:flex;gap:8px;align-items:center;border:1px solid var(--line);border-radius:8px;padding:8px 10px;font-size:12px;font-weight:500;} .fq{font-size:12px;font-weight:600;}
+.stt{border-collapse:collapse;width:100%;font-size:12.5px;} .stt td{padding:7px 8px;border-top:1px solid var(--line);vertical-align:middle;} .stt .ci{width:34px;padding-left:0;} .stt .cw{font-weight:500;width:220px;} .stt .ch2{color:var(--ink-2);width:220px;} .stt .ch2 b{color:var(--ink);font-weight:600;} .stt .ct2{color:var(--ink-3);} .stt .cg{font:600 15px/1.3 var(--sans);letter-spacing:-.01em;padding:14px 0 6px;border-top:0;}
+.oqs{display:grid;grid-template-columns:repeat(5,1fr);gap:16px;} .oq{border-top:1px solid var(--line);padding-top:10px;font-size:12px;} .oq>span{display:flex;align-items:center;min-height:24px;margin-bottom:6px;} .oq>b{font-weight:600;display:block;} .oq p{margin:2px 0 0;color:var(--ink-2);}

diff --git a/plans/rail/wave-2.md b/plans/rail/wave-2.md
@@ -62,7 +62,8 @@ Mocks: `mocks/wave-2/` (`node plans/rail/mocks/wave-2/render.mjs`). These are di
 | **One bar for every feature**, Settings' behaviour: head, what it shows, list, you. The house opens the places. The Chats column goes | 1 |
 | **Chat dispatches everything.** Tasks and schedules are cards in a conversation and a rounded dependency tree in the bar. Tasks and Schedules as places are Expert | 2 |
 | **Builds become tasks** in every word a person reads. Substages can no longer be called tasks | all |
-| **The icon carries type, state and progress:** the usage ring's look, one segment per main stage, deepening towards the state colour; substages in the tooltip. The card's step bar follows | 3 |
+| **The icon carries type, state and progress:** one smooth ring, the usage ring's look, filling by main stage and deepening into the state colour; substages in the tooltip. The card's step bar keeps its stages, in the same colours. A question, a problem, a pause or a stop takes the icon's centre | 3, 10 |
+| **Watch:** a thin ring around git's icon, grey waiting, lemon fixing, gone when it needs you. The eye on its switch, the refresh arrow on a round | 3, 10 |
 | **A row's end holds one thing:** git's own icon if it has one, otherwise the time; the rest in the tooltip | 2, 3 |
 | Views stay: by state, day (Today, Yesterday, Previous 7 days, Previous 30 days, Older), project, AI topic with its helper named. Your groups, selecting and keys stay | 3 |
 | **One search at the top,** results under an area head. Lean icons on Settings' sections and sub-sections, one new set | 4 |
@@ -70,7 +71,8 @@ Mocks: `mocks/wave-2/` (`node plans/rail/mocks/wave-2/render.mjs`). These are di
 | **The conversation on one rail;** thinking and commands fold, a failure opens itself | 6 |
 | **No New run button or dialog:** the composer says Ask, Task or Schedule, you pick it, and every New run function has a place | 7 |
 | **A task or a schedule opens like a chat:** a reading column, marks, a composer that goes to its chat. Pulse stays | 8 |
-| **Anchors:** marks on the right edge, named on hover, `[` and `]` between them | 9 |
+| **Anchors:** on hover first: marks on the right edge, named on hover, `[` and `]` between them | 9 |
+| Chat home's line: "What should Worca do?" goes; the mocks say "What's next?" for now | 5 |
 
 Decided rules these change: C1 (Chat home's list moves to the bar), C3 (Expert only), "no drawn rails" (the tree), the quiet grey finished step, `thing.slots` (stages read as a stream), `form.dialog` (New run), the conversation's rail, "the sidebar holds places".
 
